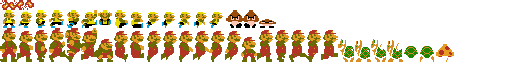
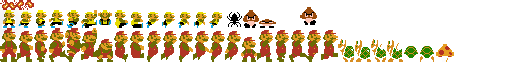
added enemy

Changed region(s): [[0.5625, 0.0938, 0.625, 0.4062], [0.4375, 0.1562, 0.5, 0.4375]]

diff --git a/src/main/java/inf112/Screen/Marius/Spider.java b/src/main/java/inf112/Screen/Marius/Spider.java
@@ -1,0 +1,58 @@
+package inf112.Screen.Marius;
+
+import com.badlogic.gdx.graphics.g2d.Animation;
+import com.badlogic.gdx.graphics.g2d.TextureRegion;
+import com.badlogic.gdx.physics.box2d.BodyDef;
+import com.badlogic.gdx.physics.box2d.CircleShape;
+import com.badlogic.gdx.physics.box2d.FixtureDef;
+import com.badlogic.gdx.utils.Array;
+
+import inf112.Screens.ShowGame;
+import inf112.skeleton.app.MegaMarius;
+
+public class Spider extends Enemy{
+    
+    private float stateTime;
+    private Animation<TextureRegion> walkAnimation;
+    private Array<TextureRegion> frames;
+    
+    public Spider(ShowGame screen, float x, float y) {
+        super(screen, x, y);
+        frames = new Array<TextureRegion>();
+        for (int i = 0; i < 2; i++) {
+            frames.add(new TextureRegion(screen.getAtlas().findRegion("goomba"), i *16, 0,16,16));
+        }
+        walkAnimation = new Animation<>(0.4f, frames);
+        stateTime = 0;
+        setBounds(getX(), getY(), 16/MegaMarius.PPM, 16/MegaMarius.PPM);
+    }
+
+    public void update(float dt){
+        stateTime +=dt;
+        setPosition(b2body.getPosition().x-getWidth()/2, b2body.getPosition().y-getHeight()/2);
+        setRegion(walkAnimation.getKeyFrame(stateTime,true));
+    }
+
+    @Override
+    protected void defineEnemy() {
+        BodyDef bdef = new BodyDef();
+        bdef.position.set(32/MegaMarius.PPM, 32/MegaMarius.PPM);
+        bdef.type = BodyDef.BodyType.DynamicBody;
+        b2body = world.createBody(bdef);
+
+        FixtureDef fdef = new FixtureDef();
+        CircleShape shape = new CircleShape();
+        shape.setRadius(6 / MegaMarius.PPM);
+        fdef.filter.categoryBits = MegaMarius.ENEMY_BIT;
+        fdef.filter.maskBits = MegaMarius.GROUND_BIT |
+            MegaMarius.COIN_BIT |
+            MegaMarius.BRICK_BIT |
+            MegaMarius.ENEMY_BIT |
+            MegaMarius.OBJECT_BIT |
+            MegaMarius.MARIO_BIT;
+
+        fdef.shape = shape;
+        b2body.createFixture(fdef).setUserData(this);
+    }
+    
+}

diff --git a/src/main/java/inf112/Screens/ShowGame.java b/src/main/java/inf112/Screens/ShowGame.java
@@ -17,6 +17,7 @@ import com.badlogic.gdx.utils.viewport.Viewport;
 
 import inf112.skeleton.app.MegaMarius;
 import inf112.Scenes.Display;
+import inf112.Screen.Marius.Spider;
 import inf112.skeleton.MakeMarius.makemarius;
 import inf112.skeleton.app.Marius;
 import inf112.skeleton.app.WorldContactListener;
@@ -35,10 +36,10 @@ public class ShowGame implements Screen{
     //Box2d variables
     private World world;
     private Box2DDebugRenderer b2dr;
-    private makemarius creator;
 
     // Sprites
     private Marius player;
+    private Spider spider;
 
     public ShowGame(MegaMarius game){
         atlas = new TextureAtlas("Mario_and_Enemies.pack");
@@ -59,11 +60,13 @@ public class ShowGame implements Screen{
 
         b2dr = new Box2DDebugRenderer();
 
-        creator = new makemarius(this);
+        new makemarius(this);
 
         player = new Marius(this);
 
         world.setContactListener(new WorldContactListener());
+
+        spider = new Spider(this, .32f, .32f);
     }
 
     public TextureAtlas getAtlas() {
@@ -77,6 +80,7 @@ public class ShowGame implements Screen{
         world.step(1 / 60f, 6, 2);
 
         player.update(dt);
+        spider.update(dt);
 
         display.updateTime(dt);
 
@@ -104,6 +108,7 @@ public class ShowGame implements Screen{
         game.batch.setProjectionMatrix(gamecam.combined);
         game.batch.begin();
         player.draw(game.batch);
+        spider.draw(game.batch);
         game.batch.end();
 
         game.batch.setProjectionMatrix(display.stage.getCamera().combined);

diff --git a/src/main/java/inf112/Screen/Marius/Enemy.java b/src/main/java/inf112/Screen/Marius/Enemy.java
@@ -1,0 +1,22 @@
+package inf112.Screen.Marius;
+
+import com.badlogic.gdx.graphics.g2d.Sprite;
+import com.badlogic.gdx.physics.box2d.Body;
+import com.badlogic.gdx.physics.box2d.World;
+
+import inf112.Screens.ShowGame;
+
+public abstract class Enemy extends Sprite{
+    protected World world;
+    protected ShowGame screen;
+    public Body b2body;
+
+    public Enemy(ShowGame screen, float x, float y){
+        this.world = screen.getWorld();
+        this.screen = screen;
+        setPosition(x, y);
+        defineEnemy();
+    }
+
+    protected abstract void defineEnemy();
+}

diff --git a/src/main/java/inf112/skeleton/MakeMarius/makemarius.java b/src/main/java/inf112/skeleton/MakeMarius/makemarius.java
@@ -42,6 +42,7 @@ public class makemarius {
             body = world.createBody(bdef);
             shape.setAsBox(rect.getWidth()/2 / MegaMarius.PPM, rect.getHeight()/2 / MegaMarius.PPM);
             fdef.shape = shape;
+            fdef.filter.categoryBits=MegaMarius.OBJECT_BIT;
             body.createFixture(fdef);
         } 
         //brick
